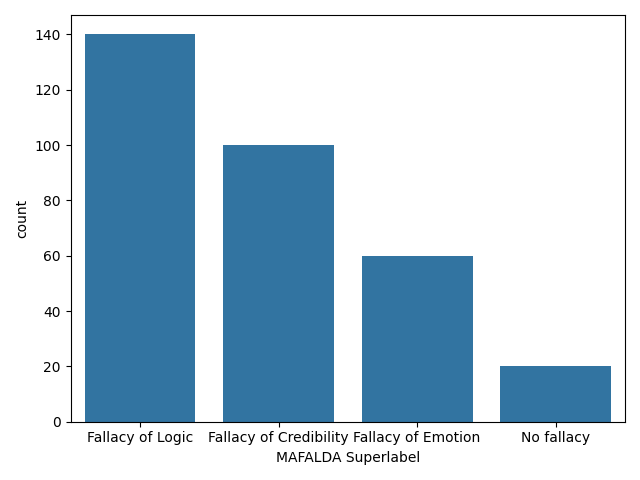
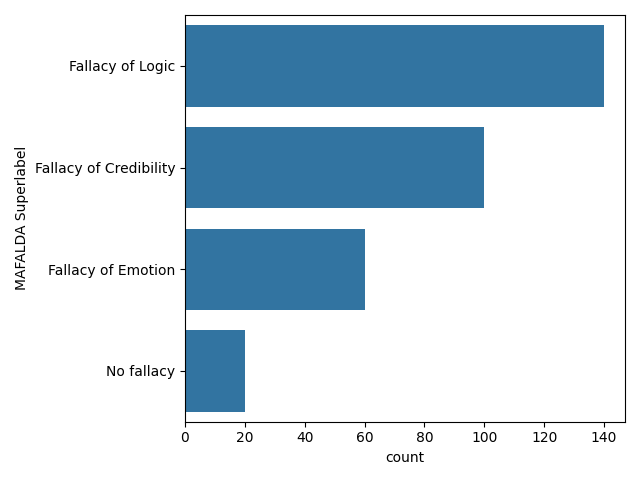
Add prediction distribution plots

diff --git a/validation_prediction_analysis.py b/validation_prediction_analysis.py
@@ -1,0 +1,44 @@
+from pathlib import Path
+
+from nltk import wordpunct_tokenize
+import pandas as pd
+import seaborn as sns
+from matplotlib import pyplot as plt
+
+
+def main():
+
+    data = pd.read_csv("output/inference_output_21_may_cleaned.csv", sep="\t")
+
+    print(data)
+
+    for technique in data["Technique"].unique():
+
+        # Histogram of labels
+        plt.figure()
+        plt.xticks(rotation=90)
+        sns.countplot(
+            data=data[data['Technique'] == technique],
+            y="MAFALDA Label",
+            order=data["MAFALDA Label"].value_counts().index,
+            hue="Model",
+
+        )
+        plt.tight_layout()
+        plt.savefig(f"plots/downsampled_validation_predictions_label_distribution_{technique}.png")
+
+        # Histogram of labels
+        plt.figure()
+        plt.xticks(rotation=90)
+        sns.countplot(
+            data=data[data['Technique'] == technique],
+            y="MAFALDA Superlabel",
+            order=data["MAFALDA Superlabel"].value_counts().index,
+            hue="Model",
+
+        )
+        plt.tight_layout()
+        plt.savefig(f"plots/downsampled_validation_predictions_superlabel_distribution_{technique}.png")
+
+if __name__ == "__main__":
+    main()

diff --git a/validation_set_analysis.py b/validation_set_analysis.py
@@ -40,7 +40,7 @@ def main():
         plt.figure()
         sns.countplot(
             data=data,
-            x="MAFALDA Superlabel",
+            y="MAFALDA Superlabel",
             order=data["MAFALDA Superlabel"].value_counts().index,
         )
         plt.tight_layout()
@@ -51,7 +51,7 @@ def main():
         plt.xticks(rotation=90)
         sns.countplot(
             data=data,
-            x="MAFALDA Label",
+            y="MAFALDA Label",
             order=data["MAFALDA Label"].value_counts().index,
             hue="MAFALDA Superlabel",
         )
